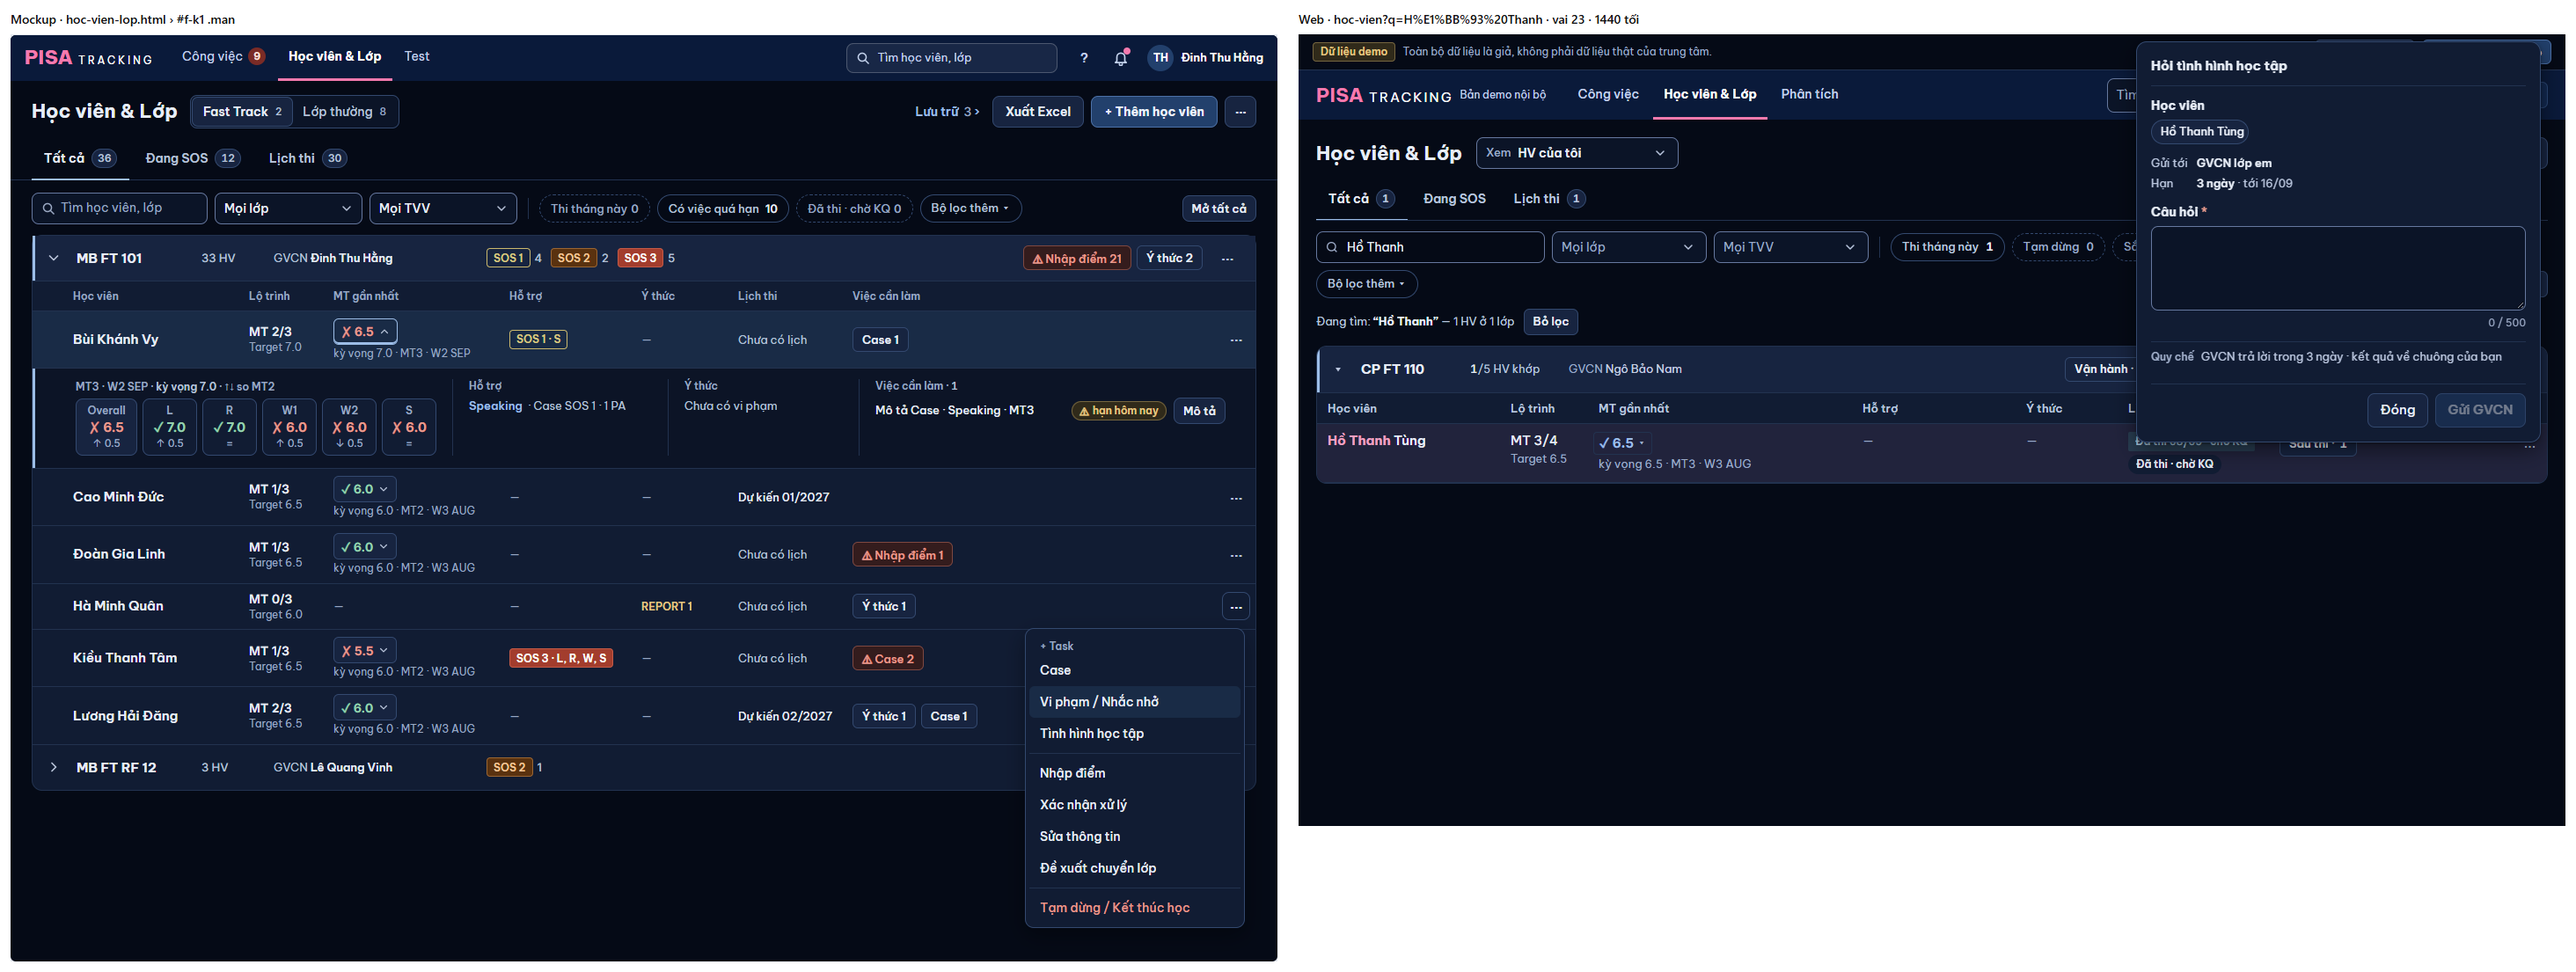
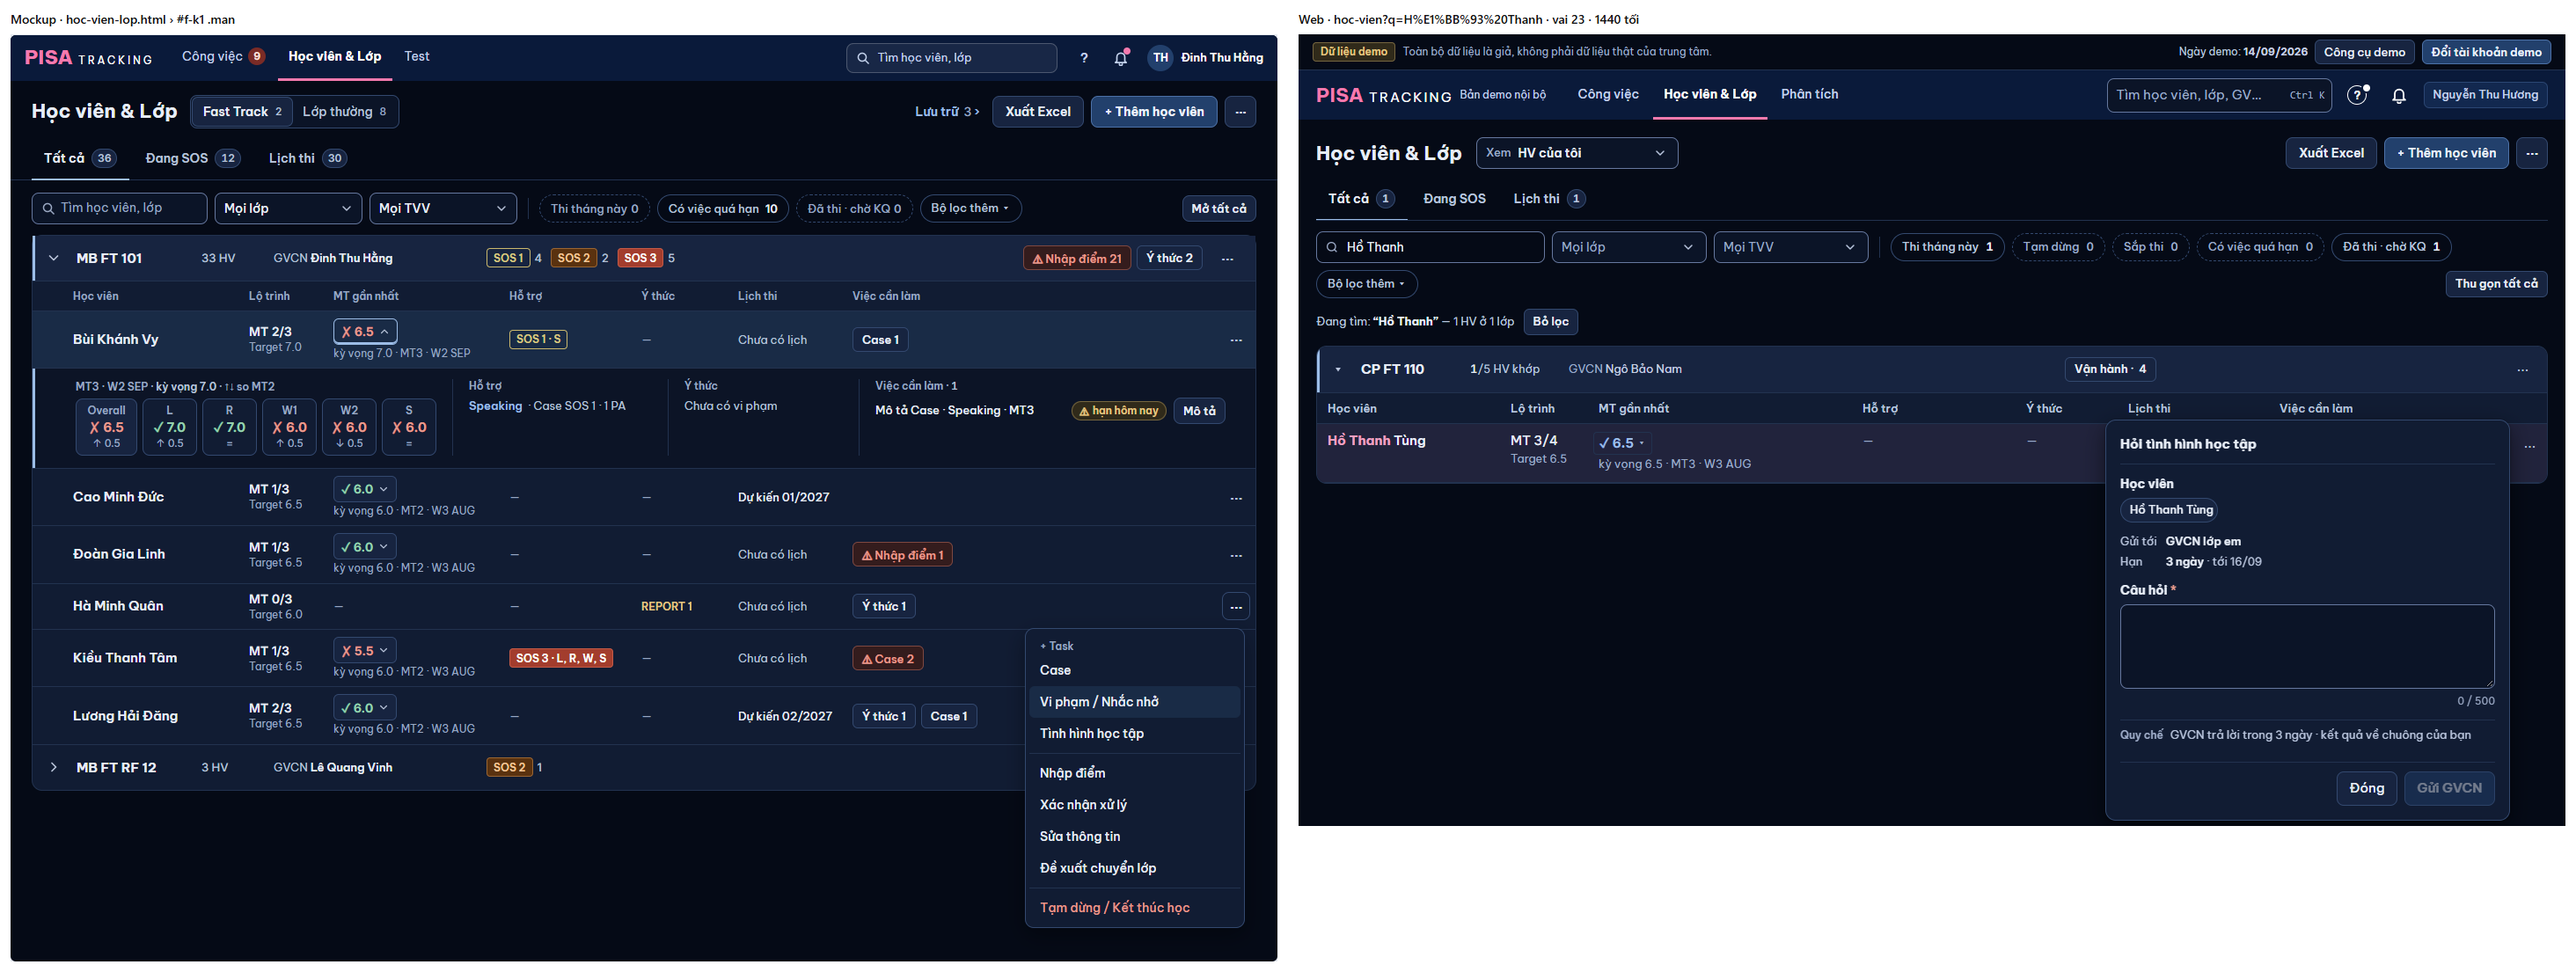
HVL-TINH-HINH sửa theo PTA rà #1708: hộp neo cạnh ⋯ không đè thanh đầu, "Gửi tới" chỉ người nhận
- HopNeo: chỉ lật lên khi phía trên (dưới thanh đầu trang) đủ chỗ; trên / dưới đều thiếu mà ô neo ở mép phải → đặt cạnh trái ô neo; không thì phía rộng hơn + cuộn trong
- HopTinhHinh: "Gửi tới" một em chỉ ghi người nhận; nhiều em mới kèm tên em
- Chụp lại cap-hop-gv 1440 + 375, cap-hop-tvv; khop-khac cập nhật

Changed region(s): [[0.8081, 0.4, 0.9945, 0.8615], [0.8081, 0.0308, 0.9945, 0.3692]]

diff --git a/web/src/ui/HopNeo.tsx b/web/src/ui/HopNeo.tsx
@@ -4,7 +4,8 @@ import { useBamNgoai } from './useBamNgoai.ts';
 
 /**
  * HỘP NỔI NEO MỘT Ô (QTV2-TK) — sửa nhỏ ngay tại dòng bảng (đổi vai, kỹ năng). Vẽ RA NGOÀI bảng (portal, `fixed`) như `MenuDong`: bảng cuộn ngang
- * trong thẻ sẽ cắt hộp nếu vẽ bên trong. Đủ chỗ thì mở xuống, không thì mở lên; cuộn / đổi cỡ màn thì đặt lại vị trí (không đóng — đang gõ dở).
+ * trong thẻ sẽ cắt hộp nếu vẽ bên trong. Đủ chỗ thì mở xuống, không thì mở lên; HVL-TINH-HINH (PTA rà #1708): cả hai phía đều thiếu → mở về phía rộng hơn,
+ * ô neo ở mép phải (⋯ cuối dòng) thì đặt CẠNH trái ô neo; không thì hộp thấp lại và cuộn bên trong (không kẹp sát mép trên đè thanh đầu trang / chính ô neo). Cuộn / đổi cỡ màn thì đặt lại vị trí (không đóng — đang gõ dở).
  * Bấm ngoài / Esc → `onNgoai` (nơi gọi quyết: chưa đổi thì đóng, đã đổi thì hỏi). Mở xong focus phần tử bấm được đầu tiên; đóng trả focus về ô neo.
  */
 export function HopNeo({ neo, nhan, rong = 420, onNgoai, lop = 'grid gap-3 p-4', mui = false, children }: {
@@ -15,22 +16,30 @@ export function HopNeo({ neo, nhan, rong = 420, onNgoai, lop = 'grid gap-3 p-4',
   const hop = useRef<HTMLDivElement>(null);
   const ngoai = useRef(onNgoai);
   ngoai.current = onNgoai;   // Esc nghe một lần lúc mở — luôn gọi bản mới nhất (biết "đã đổi" chưa)
-  const [viTri, setViTri] = useState<{ top: number; left: number; xuong: boolean; muiX: number } | null>(null);
+  const [viTri, setViTri] = useState<{ top: number; left: number; xuong: boolean; muiX: number; maxH: number | null; canh: boolean } | null>(null);
   const datViTri = () => {
     const r = neo.current?.getBoundingClientRect();
-    const cao = hop.current?.offsetHeight ?? 0;
+    const cao = hop.current?.scrollHeight ?? 0;   // cao THẬT của nội dung (kể cả khi đang bị giới hạn `maxHeight`)
     if (!r) return;
     const cach = mui ? 10 : 6;
-    const xuong = r.bottom + cach + cao <= window.innerHeight - 8;
-    const top = xuong ? r.bottom + cach : Math.max(8, r.top - cach - cao);
+    /* Mép trên dùng được = dưới thanh đầu trang (thanh xanh luôn hiện, trang cuộn trong `main`) — hộp không đè thanh đầu (PTA rà #1708). */
+    const mepTren = Math.max(8, (document.querySelector('header.thanh-xanh')?.getBoundingClientRect().bottom ?? 0) + 8);
+    const duoi = window.innerHeight - 8 - (r.bottom + cach);
+    const tren = r.top - cach - mepTren;
+    /* Trên / dưới đều thiếu mà bên trái ô neo đủ rộng (⋯ cuối dòng) → đặt CẠNH ô neo, dọc trong khoảng dưới thanh đầu → đáy màn; không thì phía rộng hơn + cuộn trong. */
+    const canh = cao > duoi && cao > tren && r.left - cach - rong >= 8 && cao <= window.innerHeight - 8 - mepTren;
+    const xuong = cao <= duoi || (cao > tren && duoi >= tren);
+    const maxH = canh || cao <= (xuong ? duoi : tren) ? null : Math.max(160, xuong ? duoi : tren);
+    const top = canh ? Math.min(Math.max(mepTren, r.top), window.innerHeight - 8 - cao)
+      : xuong ? r.bottom + cach : Math.max(mepTren, r.top - cach - Math.min(cao, tren));
     /* GD-17b: hộp nằm trong thẻ chứa ô neo (vùng bảng) — gặp mép phải thẻ thì dịch vào trong, không đè cột bên cạnh (Nhật ký). Thẻ hẹp hơn hộp thì theo màn. */
     const the = neo.current?.closest('.card')?.getBoundingClientRect();
     const vua = !!the && the.width >= rong + 16;
     const trai = vua ? Math.max(8, the.left + 8) : 8;
     const phai = vua ? Math.min(window.innerWidth, the.right) - 8 : window.innerWidth - 8;
-    const left = Math.max(trai, Math.min(mui ? r.left + r.width / 2 - 70 : r.left, phai - rong));
+    const left = canh ? r.left - cach - rong : Math.max(trai, Math.min(mui ? r.left + r.width / 2 - 70 : r.left, phai - rong));
     const muiX = r.left + r.width / 2 - left - 6;
-    setViTri((v) => (v && v.top === top && v.left === left && v.xuong === xuong && v.muiX === muiX ? v : { top, left, xuong, muiX }));   // không đổi thì giữ object cũ — không vẽ lại vô tận
+    setViTri((v) => (v && v.top === top && v.left === left && v.xuong === xuong && v.muiX === muiX && v.maxH === maxH && v.canh === canh ? v : { top, left, xuong, muiX, maxH, canh }));   // không đổi thì giữ object cũ — không vẽ lại vô tận
   };
   useLayoutEffect(datViTri);   // mỗi lần vẽ: nội dung đổi cao (thêm hàng, hiện lỗi) thì hộp vẫn nằm trong màn
   useEffect(() => {
@@ -55,8 +64,9 @@ export function HopNeo({ neo, nhan, rong = 420, onNgoai, lop = 'grid gap-3 p-4',
   return createPortal(
     <div ref={hop} role="dialog" aria-label={nhan} {...qua}
       className={`card fixed z-[60] shadow-2xl ${lop}`}
-      style={{ width: rong, maxWidth: 'calc(100vw - 16px)', top: viTri?.top ?? -9999, left: viTri?.left ?? 0, borderColor: 'var(--line-strong)' }}>
-      {mui && viTri && <span aria-hidden className="hop-mui" style={viTri.xuong ? { left: viTri.muiX, top: -7 } : { left: viTri.muiX, bottom: -7, transform: 'rotate(225deg)' }} />}
+      style={{ width: rong, maxWidth: 'calc(100vw - 16px)', top: viTri?.top ?? -9999, left: viTri?.left ?? 0, borderColor: 'var(--line-strong)',
+        ...(viTri?.maxH ? { maxHeight: viTri.maxH, overflowY: 'auto' as const, overscrollBehavior: 'contain' as const } : {}) }}>
+      {mui && viTri && !viTri.canh && <span aria-hidden className="hop-mui" style={viTri.xuong ? { left: viTri.muiX, top: -7 } : { left: viTri.muiX, bottom: -7, transform: 'rotate(225deg)' }} />}
       {children}
     </div>,
     document.body,

diff --git a/web/src/modules/yThuc/TinhHinh.tsx b/web/src/modules/yThuc/TinhHinh.tsx
@@ -236,7 +236,7 @@ export function HopTinhHinh({ neo, che, homNay, onDong, onXong }: {
           <dd className="m-0">{che.loai === 'hoi'
             ? <b className="font-semibold text-slate-100">{che.gvcn ? t('GVCN {ten}', { ten: che.gvcn }) : t('GVCN lớp em')}</b>
             : [...new Set(em.map((e) => e.tvv ?? ''))].map((tv) => (
-              <span key={tv} className="block"><b className="font-semibold text-slate-100">{tv ? t('TVV {ten}', { ten: tv }) : t('Quản lý chi nhánh')}</b> · {em.filter((e) => (e.tvv ?? '') === tv).map((e) => e.ten).join(', ')}</span>
+              <span key={tv} className="block"><b className="font-semibold text-slate-100">{tv ? t('TVV {ten}', { ten: tv }) : t('Quản lý chi nhánh')}</b>{/* PTA rà #1708: một em → chỉ người nhận (tên em đã ở dòng Học viên); nhiều em → em nào gửi ai */}{em.length > 1 && <> · {em.filter((e) => (e.tvv ?? '') === tv).map((e) => e.ten).join(', ')}</>}</span>
             ))}</dd>
           <dt>{che.loai === 'bao' ? t('Hạn TVV') : t('Hạn')}</dt>
           <dd className="m-0"><b className="font-semibold text-slate-100">{che.loai === 'hoi' ? t('3 ngày') : t('5 ngày')}</b> · {t('tới {ngay}', { ngay: ngay(che.loai === 'hoi' ? addDaysIso(homNay, 2) : hanBaoPh(homNay), homNay) })}</dd>

diff --git a/docs/anh/hvl-tinh-hinh/khop-khac.md b/docs/anh/hvl-tinh-hinh/khop-khac.md
@@ -16,7 +16,7 @@ Tài khoản demo tên giả: GV Trần Ngọc Hà (7) · TVV Nguyễn Thu Hươ
 | # | Thành phần (nguồn) | Web sau PR | Ảnh | Kết quả |
 |---|---|---|---|---|
 | 1 | ⋯ dòng em: nhóm "+ Task" có 3 mục Case · Vi phạm / Nhắc nhở · Tình hình học tập (mockup K1, lời 17) | `useThaoTacDongHocVien.mucCua`: "Tình hình học tập" ngay sau Vi phạm trong nhóm, vạch sau nhóm | cap-menu-gv | KHỚP |
-| 2 | Bấm mục → hộp Tình hình MỘT em, tại trang | DÙNG LẠI `HopTinhHinh` (prTinhHinh, như "+ Task" hồ sơ HV): `bao` em điền sẵn kèm TVV của em; neo nút ⋯ vừa bấm; 375 tấm dưới | cap-hop-gv, cap-hop-gv-375 | KHỚP |
+| 2 | Bấm mục → hộp Tình hình MỘT em, tại trang | DÙNG LẠI `HopTinhHinh` (prTinhHinh, như "+ Task" hồ sơ HV): `bao` em điền sẵn kèm TVV của em; neo nút ⋯ vừa bấm (dưới, hoặc cạnh khi thiếu chỗ); 375 tấm dưới; "Gửi tới" một em chỉ ghi người nhận ("TVV Lê Thu"), nhiều em mới kèm tên em | cap-hop-gv, cap-hop-gv-375 | KHỚP |
 | 3 | TVV (⋯ theo vai) | "+ Task" · **Hỏi tình hình học tập** (gửi GVCN) — cùng mục "+ Task" của TVV ở hồ sơ HV / trang đầu | cap-menu-tvv, cap-hop-tvv | KHỚP |
 | 4 | Quyền theo máy chủ, vai không làm được thì không có mục | Báo: cờ `coTheGhiViPham` đã nạp (= `violation.record` ở lớp — đúng điều kiện `quyenGui` gv_tvv); Hỏi: cờ `suaThem` đã nạp (≈ `coTheGhi`: TVV có `student.edit_more`); em không đang học → không có mục; máy chủ vẫn kiểm khi gửi, lỗi ở lại hộp, chữ giữ | — | KHỚP |
 | 5 | Hộp "Hỏi" từ danh sách phải nói rõ em nào | `HopTinhHinh`: khi đã có em (Báo hoặc Hỏi) luôn hiện "Học viên · {tên}" (trước chỉ hiện ở Báo) — áp chung, hồ sơ HV cũng thấy tên em | cap-hop-tvv | KHỚP |
@@ -24,7 +24,7 @@ Tài khoản demo tên giả: GV Trần Ngọc Hà (7) · TVV Nguyễn Thu Hươ
 
 ## 2. KHÁC (có lý do)
 
-1. **Hộp ở hàng cuối trang ngắn**: hộp cao ~460 px; dưới nút ⋯ không đủ chỗ thì `HopNeo` (chung) lật lên trên và giữ trong màn — có thể che một phần hàng của chính em (ảnh cap-hop-gv). Đây là hành vi sẵn có của hộp neo dùng ở mọi nơi; không đổi thành phần chung trong PR này.
+1. ~~Hộp ở hàng cuối trang ngắn kẹp sát mép trên~~ — **đã sửa (PTA rà #1708)** ở `HopNeo` (chung): chỉ lật lên khi phía trên (dưới thanh đầu trang) đủ chỗ; trên / dưới đều thiếu mà ô neo ở mép phải (⋯ cuối dòng) → đặt **cạnh trái nút ⋯**, dọc trong khoảng dưới thanh đầu → đáy màn; không thì phía rộng hơn, hộp cuộn trong. Không đè thanh đầu, không che nút ⋯. Soi lại "+ Task" trang Công việc (mở xuống như cũ); các chỗ đủ chỗ trên / dưới không đổi.
 2. **Hộp Hỏi không có ✕ ở tiêu đề**: dáng sẵn có của `HopTinhHinh` (chỉ hộp Báo có ✕, theo ⑤ F3); đóng bằng "Đóng" / Esc / bấm ngoài.
 
 ## 3. Thao tác TRƯỚC → SAU
